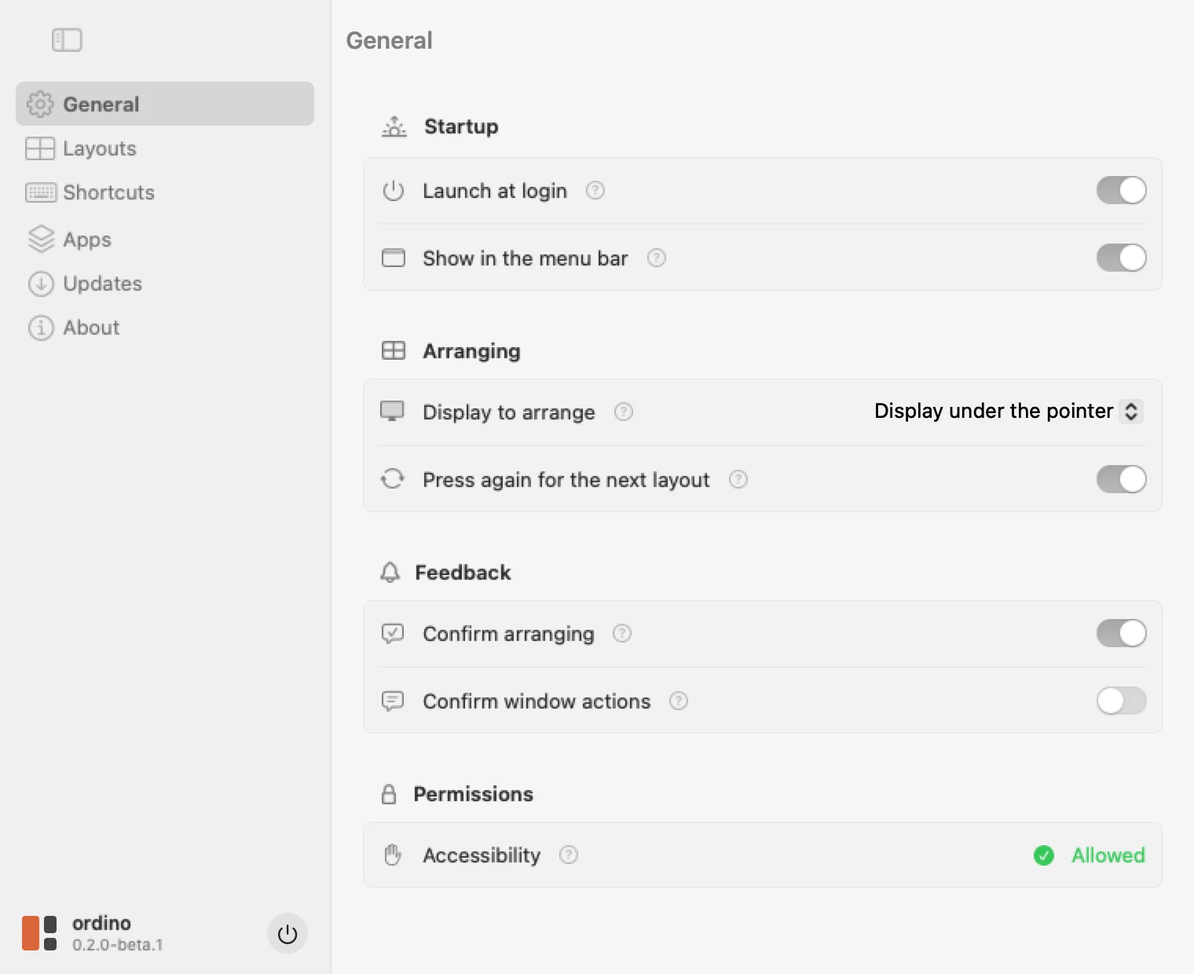
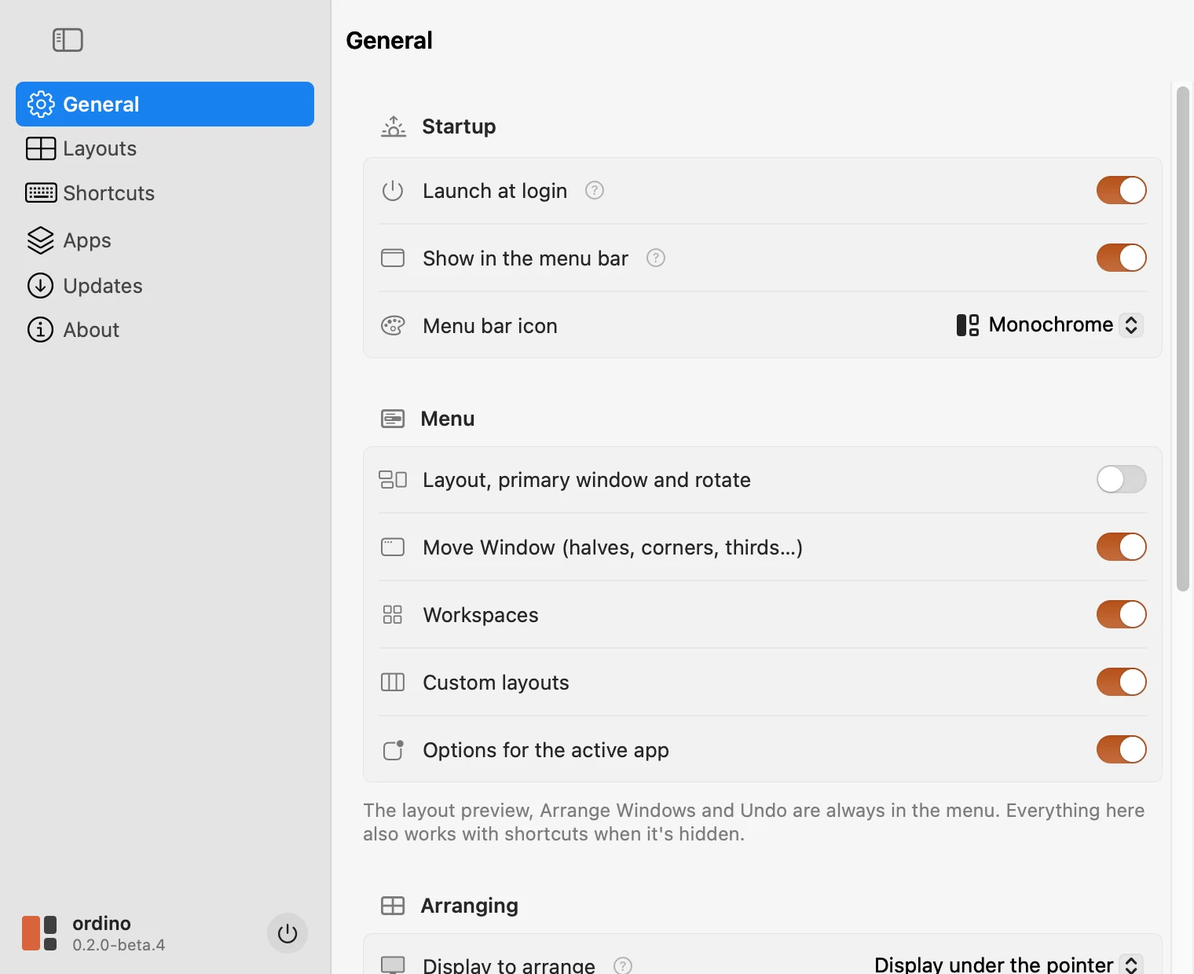
feat: brand colour in the app; website shows the current menu and Settings (#13)
App:
- Settings, grid previews, snap bar and the menu card use ordino's
terracotta (Color.ordino) instead of the system blue.
- Debug snapshots: neutral sample apps (no real app icons), long
Settings panes with sample custom layouts/workspaces, the snap bar;
controls render active; the user's settings are restored afterwards.

Website:
- Hero: under macOS Reduce Motion the desk now cross-fades from
scattered to arranged (no movement) instead of standing still. This is
why it didn't animate on a Mac with Reduce Motion on.
- Menu section shows the current short menu (Move Window, Workspaces,
Custom Layouts, app options) and the current menu card.
- Settings tabs: Snap one window, Custom grids, Workspaces, Menu and
icon, Apps and rules, Updates — all fresh screenshots.
- The drag-to-snap card shows the real snap bar.
- Design gate passes; checked at 1440 and 390.

diff --git a/web/index.html b/web/index.html
@@ -103,7 +103,12 @@
     .win { padding: 4px; } .win__bar { height: 18px; font-size: 9px; padding: 0 6px; } .win__bar i { width: 6px; height: 6px; }
     .hud { font-size: 11px; padding: 6px 10px; } .hud .kbd { font-size: 14px; }
   }
-  @media (prefers-reduced-motion: reduce) { .win { transition: none; } .desk.is-scattered .win { transform: none; } .hud { display: none; } }
+  /* Reduce Motion: the windows don't fly; the scattered desk fades into the arranged one instead,
+     so the hero still shows what ordino does without movement */
+  @media (prefers-reduced-motion: reduce) {
+    .win { transition: opacity 320ms ease; }
+    .desk.is-fading .win { opacity: 0; }
+  }
 
   /* ---- the app frame: the menu bar menu beside the Layouts settings (sections-library.md app-frame) */
   .app.ui { display: grid; grid-template-columns: minmax(0, 5fr) minmax(0, 7fr); margin-top: var(--s-7); background: var(--u-bg); border: 1px solid var(--u-border); border-radius: var(--u-r); box-shadow: var(--u-shadow); }
@@ -332,13 +337,22 @@
   .brew:focus-visible { outline: 2px solid var(--accent); outline-offset: 2px; }
   @media (max-width: 639px) { .brew { display: none; } }   /* Homebrew is a Mac tool; the phone hero stays as it was */
 
+  /* menu item icons (drawn, like the macOS menu's SF Symbols) */
+  .mi__i { width: 13px; height: 10px; margin-right: 7px; border: 1.3px solid currentColor; border-radius: 2.5px; opacity: .75; flex: none; position: relative; }
+  .mi__i--grid { background: linear-gradient(currentColor, currentColor) 50% 0/1.3px 100% no-repeat, linear-gradient(currentColor, currentColor) 0 50%/100% 1.3px no-repeat; }
+  .mi__i--cols { background: linear-gradient(90deg, transparent 31%, currentColor 31% 38%, transparent 38% 62%, currentColor 62% 69%, transparent 69%); }
+  .mi__i--win { border-top-width: 3px; }
+  .mi__i--app { width: 11px; height: 11px; border-radius: 3px; }
+  /* the real snap bar in the drag-to-snap card */
+  .fv-shot { display: block; width: 100%; height: auto; border-radius: 10px; background: #2b2d31; }
+
   /* features: six cards, each with a tiny drawn screen of what it does */
   .feat-grid { row-gap: var(--s-6); }
   .feat { display: flex; flex-direction: column; gap: var(--s-3); }
   .feat h3 { font-size: 18px; } .feat p { color: var(--ink); }
   .fv { display: block; width: 100%; max-width: 220px; height: auto; }
   @media (max-width: 1023px) { #features .feat { grid-column: auto / span 6; } }
-  @media (max-width: 639px) { #features .feat { grid-column: 1 / -1; } #features .fv { max-width: 150px; } #features .feat { gap: var(--s-2); } }
+  @media (max-width: 639px) { #features .feat { grid-column: 1 / -1; } #features .fv { max-width: 164px; } #features .feat { gap: var(--s-2); } }
 
   /* a tall window (960 and up, e.g. a portrait or half-width window on a big display): the close and the
      statement are as tall as what they hold, not a whole screen, which left hundreds of empty pixels
@@ -462,42 +476,28 @@
   <section class="section" id="menu" aria-labelledby="menu-h">
     <div class="wrap">
       <div class="grid">
-        <div class="section-head span-5"><h2 id="menu-h">One menu for every window action.</h2></div>
+        <div class="section-head span-5"><h2 id="menu-h">One short menu for every window action.</h2></div>
         <div class="span-6 start-7 stack-4">
-          <p>Click the ordino icon in the menu bar. The card on top names the display, its window count and the layout ordino will use. Each action shows its shortcut.</p>
+          <p>Click the ordino icon in the menu bar. The card on top shows the display and the layout ordino will use; click another layout to switch. Moving one window, workspaces, custom grids and options for the app you are in sit one level down. Settings chooses what the menu shows and whether the icon is in colour.</p>
           <a class="link" href="#layouts">See how layouts are picked</a>
         </div>
       </div>
       <div class="ui app fill" role="img" aria-label="The ordino menu open under its menu bar icon, beside the Layouts settings with the Master + Stack preview" data-ui-pause-host>
         <div class="app__pane app__pane--list mac">
           <div class="menubar"><span class="menubar__ordino"><img loading="lazy" width="16" height="16" src="logo-mark.svg" alt=""></span><span>Mon 9:41</span></div>
-          <div class="mmenu" role="img" aria-label="The ordino menu: Arrange Windows, layouts, primary window, rotate, undo and the single-window actions with their shortcuts">
+          <div class="mmenu" role="img" aria-label="The ordino menu: the layout card, Arrange Windows, Undo, then Move Window, Workspaces, Custom Layouts and options for the active app">
             <div class="mmenu__card mmenu__card--real">
               <img src="media/menu-card.webp" width="320" height="252" loading="lazy" decoding="async" alt="">
             </div>
             <div class="mi is-on">Arrange Windows<span class="kbd">⌃⌥⌘A</span></div>
-            <div class="mi">Layout<span class="chev">›</span></div>
-            <div class="mi">Primary Window<span class="chev">›</span></div>
-            <div class="mi">Rotate Windows<span class="kbd">⌃⌥⌘R</span></div>
             <div class="mi">Undo Arrange<span class="kbd">⌃⌥⌘Z</span></div>
             <div class="msep"></div>
-            <div class="mi">Left<span class="kbd">⌃⌥←</span></div>
-            <div class="mi">Right<span class="kbd">⌃⌥→</span></div>
-            <div class="mi">Center</div>
-            <div class="mi">Top<span class="kbd">⌃⌥↑</span></div>
-            <div class="mi">Bottom<span class="kbd">⌃⌥↓</span></div>
-            <div class="mi">Top Left<span class="kbd">⌃⌥U</span></div>
-            <div class="mi">Top Right<span class="kbd">⌃⌥I</span></div>
-            <div class="mi">Maximize<span class="kbd">⌃⌥↩</span></div>
-            <div class="mi">Next Display<span class="kbd">⌃⌥⌘→</span></div>
-            <div class="mi">Move to Edge<span class="chev">›</span></div>
-            <div class="mi">Fourths<span class="chev">›</span></div>
-            <div class="mi">Sixths<span class="chev">›</span></div>
-            <div class="msep"></div>
-            <div class="mi">Ignore Browser</div>
+            <div class="mi"><span class="mi__i mi__i--win"></span>Move Window<span class="chev">›</span></div>
+            <div class="mi"><span class="mi__i mi__i--grid"></span>Workspaces<span class="chev">›</span></div>
+            <div class="mi"><span class="mi__i mi__i--cols"></span>Custom Layouts<span class="chev">›</span></div>
+            <div class="mi"><span class="mi__i mi__i--app"></span>Browser<span class="chev">›</span></div>
             <div class="msep"></div>
             <div class="mi">Settings…<span class="kbd">⌘,</span></div>
-            <div class="mi">About ordino</div>
             <div class="mi">Check for Updates…</div>
             <div class="msep"></div>
             <div class="mi">Quit ordino<span class="kbd">⌘Q</span></div>
@@ -575,24 +575,30 @@
     <div class="wrap">
       <div class="grid">
         <div class="span-5 stack-5">
-          <div class="section-head"><h2 id="shortcuts-h">Window shortcuts and settings. <span class="muted">Every shortcut can be changed.</span></h2></div>
+          <div class="section-head"><h2 id="shortcuts-h">Window shortcuts, grids and workspaces in Settings. <span class="muted">Every shortcut can be changed.</span></h2></div>
           <div class="tabs" role="tablist" aria-label="ordino settings">
             <button class="tab" type="button" role="tab" id="t-1" aria-selected="true" aria-controls="tab-1 screen-1">Snap one window</button>
-            <button class="tab" type="button" role="tab" id="t-2" aria-selected="false" aria-controls="tab-2 screen-2" tabindex="-1">Pick primary apps</button>
-            <button class="tab" type="button" role="tab" id="t-3" aria-selected="false" aria-controls="tab-3 screen-3" tabindex="-1">Set the basics</button>
-            <button class="tab" type="button" role="tab" id="t-4" aria-selected="false" aria-controls="tab-4 screen-4" tabindex="-1">Get updates</button>
+            <button class="tab" type="button" role="tab" id="t-2" aria-selected="false" aria-controls="tab-2 screen-2" tabindex="-1">Custom grids</button>
+            <button class="tab" type="button" role="tab" id="t-3" aria-selected="false" aria-controls="tab-3 screen-3" tabindex="-1">Workspaces</button>
+            <button class="tab" type="button" role="tab" id="t-4" aria-selected="false" aria-controls="tab-4 screen-4" tabindex="-1">Menu and icon</button>
+            <button class="tab" type="button" role="tab" id="t-5" aria-selected="false" aria-controls="tab-5 screen-5" tabindex="-1">Apps and rules</button>
+            <button class="tab" type="button" role="tab" id="t-6" aria-selected="false" aria-controls="tab-6 screen-6" tabindex="-1">Updates</button>
           </div>
-          <div role="tabpanel" id="tab-1" aria-labelledby="t-1"><p>Halves, corners, thirds, fourths, sixths, maximize and center. Press <span class="kbd">⌃⌥←</span> again to go from 1/2 to 2/3 to 1/3. Rectangle-style keys by default, Spectacle-style as a preset.</p></div>
-          <div role="tabpanel" id="tab-2" aria-labelledby="t-2" hidden><p>List the apps whose window always takes the large slot, in order. Apps you ignore are never moved.</p></div>
-          <div role="tabpanel" id="tab-3" aria-labelledby="t-3" hidden><p>Arrange the display under the pointer, try the next layout on a second press, and choose when a confirmation shows.</p></div>
-          <div role="tabpanel" id="tab-4" aria-labelledby="t-4" hidden><p>ordino checks, downloads and installs updates by itself, or when you press Check Now.</p></div>
+          <div role="tabpanel" id="tab-1" aria-labelledby="t-1"><p>Halves, corners, thirds, fourths, sixths, maximize and center, each with a shortcut you can change. Press <span class="kbd">⌃⌥←</span> again to go from 1/2 to 2/3 to 1/3.</p></div>
+          <div role="tabpanel" id="tab-2" aria-labelledby="t-2" hidden><p>Pick a shape from the gallery, like 3 columns for an ultrawide, see it drawn, give it a shortcut. Your most recent windows fill it.</p></div>
+          <div role="tabpanel" id="tab-3" aria-labelledby="t-3" hidden><p>Save the windows of a display as Coding or Writing. Apply one and missing apps open, then every window goes back to its place.</p></div>
+          <div role="tabpanel" id="tab-4" aria-labelledby="t-4" hidden><p>Choose a monochrome or colour menu bar icon, and which groups the menu shows. Snapping and display changes switch on or off here.</p></div>
+          <div role="tabpanel" id="tab-5" aria-labelledby="t-5" hidden><p>List the apps whose window takes the large slot, give apps a fixed place, or tell ordino to leave them alone.</p></div>
+          <div role="tabpanel" id="tab-6" aria-labelledby="t-6" hidden><p>ordino checks, downloads and installs updates by itself, or when you press Check Now.</p></div>
         </div>
         <div class="frame frame--split span-6 start-7" role="img" aria-label="The ordino Settings window">
           <div class="stage stage--fade-br">
             <div class="at-corner" id="screen-1"><div class="shot"><img src="media/settings-shortcuts.webp" alt="" width="1520" height="1240" loading="lazy" decoding="async"></div></div>
-            <div class="at-corner" id="screen-2" hidden><div class="shot"><img src="media/settings-apps.webp" alt="" width="1520" height="1240" loading="lazy" decoding="async"></div></div>
-            <div class="at-corner" id="screen-3" hidden><div class="shot"><img src="media/settings-general.webp" alt="" width="1520" height="1240" loading="lazy" decoding="async"></div></div>
-            <div class="at-corner" id="screen-4" hidden><div class="shot"><img src="media/settings-updates.webp" alt="" width="1520" height="1240" loading="lazy" decoding="async"></div></div>
+            <div class="at-corner" id="screen-2" hidden><div class="shot"><img src="media/settings-custom.webp" alt="" width="1520" height="1240" loading="lazy" decoding="async"></div></div>
+            <div class="at-corner" id="screen-3" hidden><div class="shot"><img src="media/settings-workspaces.webp" alt="" width="1520" height="1240" loading="lazy" decoding="async"></div></div>
+            <div class="at-corner" id="screen-4" hidden><div class="shot"><img src="media/settings-general.webp" alt="" width="1520" height="1240" loading="lazy" decoding="async"></div></div>
+            <div class="at-corner" id="screen-5" hidden><div class="shot"><img src="media/settings-apps.webp" alt="" width="1520" height="1240" loading="lazy" decoding="async"></div></div>
+            <div class="at-corner" id="screen-6" hidden><div class="shot"><img src="media/settings-updates.webp" alt="" width="1520" height="1240" loading="lazy" decoding="async"></div></div>
           </div>
         </div>
       </div>
@@ -604,7 +610,7 @@
       <div class="section-head"><h2 id="features-h">More ordino features for real desks. <span class="muted">More monitors, more ways to work.</span></h2></div>
       <div class="grid feat-grid">
         <article class="card card--open span-4 m-nolift feat">
-          <svg class="fv" viewBox="0 0 160 96" role="img" aria-label="A window snapped to the left half"><rect width="160" height="96" rx="10" fill="#2b2d31"/><rect x="6" y="6" width="72" height="84" rx="4" fill="#d9653b"/><rect x="82" y="6" width="72" height="40" rx="4" fill="#edeae4"/><rect x="82" y="50" width="72" height="40" rx="4" fill="#edeae4"/></svg>
+          <img class="fv-shot" src="media/snap-bar.webp" width="1020" height="144" loading="lazy" decoding="async" alt="The snap bar: layouts that appear at the top of the screen while you drag a window, with Two Thirds highlighted">
           <h3>Drag-to-snap windows</h3>
           <p>Pull a window to a screen edge for a half, into a corner for a quarter, or up to the top for a bar of layouts: thirds, two thirds, quarters.</p>
         </article>
@@ -630,7 +636,7 @@
         </article>
         <article class="card card--open span-4 m-nolift feat">
           <svg class="fv" viewBox="0 0 160 96" role="img" aria-label="An ordino link"><rect width="160" height="96" rx="10" fill="#2b2d31"/><text x="80" y="55" text-anchor="middle" font-family="DM Mono, ui-monospace, monospace" font-size="16" fill="#edeae4">ordino://arrange</text></svg>
-          <h3>ordino links for Shortcuts and Raycast</h3>
+          <h3>Links to arrange windows from Shortcuts</h3>
           <p>ordino:// links for Shortcuts, Raycast and scripts: arrange, switch layout or open a workspace.</p>
         </article>
       </div>

diff --git a/Sources/OrdinoApp/DebugSnapshots.swift b/Sources/OrdinoApp/DebugSnapshots.swift
@@ -41,17 +41,66 @@
                             to: url.appendingPathComponent("menu-card-\(name)-\(suffix).png"))
                     }
                 }
+                await renderFeatureShots(app: app, to: url)
                 NSApp.terminate(nil)
             }
+        }
+
+        /// Long Settings panes with sample content (custom layouts, workspaces, menu options) and the snap bar,
+        /// for the website. The user's own settings are put back afterwards.
+        private static func renderFeatureShots(app: AppDelegate, to url: URL) async {
+            let s = app.settings
+            let saved = (s.customLayouts, s.workspaces, s.menuSections, s.menuBarIconStyle)
+            s.customLayouts = [
+                CustomLayout(name: "3 Columns", columns: 3, rows: 1),
+                CustomLayout(name: "2 × 2 Grid", columns: 2, rows: 2),
+            ]
+            s.workspaces = [
+                Workspace(
+                    name: "Coding",
+                    slots: [
+                        .init(bundleID: "sample.editor", appName: "Code Editor", x: 0, y: 0, w: 0.6, h: 1),
+                        .init(bundleID: "sample.browser", appName: "Browser", x: 0.6, y: 0, w: 0.4, h: 0.5),
+                        .init(bundleID: "sample.terminal", appName: "Terminal", x: 0.6, y: 0.5, w: 0.4, h: 0.5),
+                    ]),
+                Workspace(
+                    name: "Writing",
+                    slots: [
+                        .init(bundleID: "sample.notes", appName: "Notes", x: 0, y: 0, w: 0.5, h: 1),
+                        .init(bundleID: "sample.browser", appName: "Browser", x: 0.5, y: 0, w: 0.5, h: 1),
+                    ]),
+            ]
+            s.menuSections = MenuSection.defaults
+            s.menuBarIconStyle = .colorAutomatic
+            for appearance in [NSAppearance.Name.aqua, .darkAqua] {
+                let suffix = appearance == .aqua ? "light" : "dark"
+                for pane in [SettingsPane.general, .layouts] {
+                    let navigation = SettingsNavigation()
+                    navigation.pane = pane
+                    await render(
+                        SettingsView(app: app, navigation: navigation), size: NSSize(width: 760, height: 1500),
+                        appearance: appearance,
+                        to: url.appendingPathComponent("settings-\(pane.rawValue)-tall-\(suffix).png"))
+                }
+                let model = SnapBarModel()
+                model.hoveredGroup = 2
+                model.hoveredAction = .firstTwoThirds
+                await render(
+                    SnapBarView(model: model).padding(24),
+                    size: NSSize(width: SnapBar.size.w + 48, height: SnapBar.size.h + 48),
+                    appearance: appearance, to: url.appendingPathComponent("snap-bar-\(suffix).png"))
+            }
+            (s.customLayouts, s.workspaces, s.menuSections, s.menuBarIconStyle) = saved
         }
 
         /// A preview with real installed apps on the first display (for its wallpaper).
         private static func samplePreview(layout: LayoutID, count: Int) -> ArrangeCoordinator.Preview? {
             guard let display = Displays.all().first else { return nil }
+            // Neutral sample apps (no real app icons or names in published images).
             let apps: [(String, String)] = [
-                ("Xcode", "com.apple.dt.Xcode"), ("Safari", "com.apple.Safari"), ("Notes", "com.apple.Notes"),
-                ("Mail", "com.apple.mail"), ("Google Chrome", "com.google.Chrome"), ("Terminal", "com.apple.Terminal"),
-                ("Calendar", "com.apple.iCal"),
+                ("Code Editor", "sample.editor"), ("Browser", "sample.browser"), ("Notes", "sample.notes"),
+                ("Mail", "sample.mail"), ("Design", "sample.design"), ("Terminal", "sample.terminal"),
+                ("Calendar", "sample.calendar"),
             ]
             // A neutral sample display: no personal wallpaper or monitor name in published images.
             let snapshot = DisplaySnapshot(
@@ -81,9 +130,14 @@
                 styleMask: [.titled, .fullSizeContentView], backing: .buffered, defer: false)
             window.titlebarAppearsTransparent = true
             window.appearance = NSAppearance(named: appearance)
-            window.contentViewController = NSHostingController(rootView: view)
+            // Draw controls as in the active window (offscreen windows are never key, so toggles would look grey).
+            window.contentViewController = NSHostingController(
+                rootView: view.environment(\.controlActiveState, .key))
             window.setContentSize(size)
-            window.orderBack(nil)
+            // Controls draw as active only in the key window of the active app.
+            NSApp.setActivationPolicy(.regular)
+            NSApp.activate()
+            window.makeKeyAndOrderFront(nil)
             try? await Task.sleep(for: .milliseconds(600))
             guard let content = window.contentView?.superview ?? window.contentView else { return }
             content.layoutSubtreeIfNeeded()

diff --git a/web/site.js b/web/site.js
@@ -1,6 +1,7 @@
 // ordino site: small jobs the kit does not do (hero snap, download links, copy buttons).
 // 1. The hero desktop: the scattered windows snap into Master + Stack once after load (the HUD shows the
-//    shortcut), and again when the pointer or the focus enters the frame. Under reduced motion they stand arranged.
+//    shortcut), and again when the pointer or the focus enters the frame. Under Reduce Motion the scattered
+//    desk cross-fades into the arranged one instead of moving.
 // 2. The download links: the static href points at 0.2.0-beta.1; the update feed (same origin) upgrades the
 //    href and the version label to the newest release. Without script or feed the static link stays.
 const reduced = matchMedia('(prefers-reduced-motion: reduce)').matches;
@@ -9,8 +10,19 @@ if (desk) {
   let busy = false;
   const play = (delay) => {
     if (busy) return; busy = true;
-    if (reduced) { desk.classList.remove('is-scattered'); busy = false; return; }
     desk.classList.add('is-scattered');
+    if (reduced) {
+      // No movement: fade the scattered windows out, place them, fade them back in arranged.
+      setTimeout(() => {
+        desk.classList.add('is-fading', 'is-hud');
+        setTimeout(() => {
+          desk.classList.remove('is-scattered');
+          requestAnimationFrame(() => desk.classList.remove('is-fading'));
+          setTimeout(() => { desk.classList.remove('is-hud'); busy = false; }, 1500);
+        }, 340);
+      }, delay);
+      return;
+    }
     setTimeout(() => {
       desk.classList.add('is-hud');
       requestAnimationFrame(() => desk.classList.remove('is-scattered'));

diff --git a/Sources/OrdinoApp/MenuCard.swift b/Sources/OrdinoApp/MenuCard.swift
@@ -225,7 +225,7 @@ struct MiniWindow: View {
         .overlay(
             RoundedRectangle(cornerRadius: radius, style: .continuous)
                 .strokeBorder(
-                    isPrimary ? Color.accentColor : Color.black.opacity(isHovered ? 0.35 : 0.14),
+                    isPrimary ? Color.ordino : Color.black.opacity(isHovered ? 0.35 : 0.14),
                     lineWidth: isPrimary ? 1.5 : 0.5)
         )
         .shadow(color: .black.opacity(isPrimary ? 0.32 : 0.22), radius: isPrimary ? 3 : 1.5, y: 1)
@@ -250,11 +250,11 @@ struct LayoutPicker: View {
                 } label: {
                     Image(nsImage: ActionIcons.image(for: layout, windowCount: windowCount))
                         .renderingMode(.template)
-                        .foregroundStyle(selected ? Color.accentColor : Color.secondary)
+                        .foregroundStyle(selected ? Color.ordino : Color.secondary)
                         .frame(maxWidth: .infinity, minHeight: 26)
                         .background(
                             RoundedRectangle(cornerRadius: 6, style: .continuous)
-                                .fill(selected ? Color.accentColor.opacity(0.16) : Color.clear)
+                                .fill(selected ? Color.ordino.opacity(0.16) : Color.clear)
                         )
                         .contentShape(Rectangle())
                 }

diff --git a/Sources/OrdinoApp/SettingsWindow.swift b/Sources/OrdinoApp/SettingsWindow.swift
@@ -145,6 +145,10 @@ struct SettingsView: View {
     @Bindable var navigation: SettingsNavigation
 
     var body: some View {
+        settingsBody.tint(.ordino)
+    }
+
+    private var settingsBody: some View {
         NavigationSplitView {
             List(SettingsPane.allCases, selection: Binding($navigation.pane)) { pane in
                 NavigationLink(value: pane) {
@@ -205,13 +209,19 @@ struct SidebarFooter: View {
 }
 
 /// The ordino mark in its brand colours: terracotta primary tile, neutral stack.
+extension Color {
+    /// ordino's terracotta (brand guide #D9653B): Settings controls, previews and the snap bar use it so the app
+    /// and the website read as one product.
+    static let ordino = Color(red: 0.851, green: 0.396, blue: 0.231)
+}
+
 struct BrandMarkColored: View {
     var body: some View {
         GeometryReader { geo in
             let s = min(geo.size.width, geo.size.height) / 48
             ZStack(alignment: .topLeading) {
                 RoundedRectangle(cornerRadius: 4.3 * s, style: .continuous)
-                    .fill(Color(red: 0.85, green: 0.40, blue: 0.23))
+                    .fill(Color.ordino)
                     .frame(width: 24.6 * s, height: 48 * s)
                 RoundedRectangle(cornerRadius: 4.3 * s, style: .continuous)
                     .fill(Color.primary.opacity(0.85))

diff --git a/Sources/OrdinoApp/SettingsPanes.swift b/Sources/OrdinoApp/SettingsPanes.swift
@@ -373,7 +373,7 @@ struct LayoutPreviewDiagram: View {
                     )
                     .insetBy(dx: 2, dy: 2)
                     RoundedRectangle(cornerRadius: 5, style: .continuous)
-                        .fill(index == 0 ? Color(red: 0.85, green: 0.40, blue: 0.23) : Color(white: 0.92))
+                        .fill(index == 0 ? Color.ordino : Color(white: 0.92))
                         .frame(width: max(1, rect.width), height: max(1, rect.height))
                         .offset(x: rect.minX, y: rect.minY)
                         .animation(.smooth(duration: 0.2), value: r)
@@ -1009,7 +1009,7 @@ struct GridPreview: View {
                 RoundedRectangle(cornerRadius: 5, style: .continuous).fill(Color.primary.opacity(0.08))
                 ForEach(0..<(columns * rows), id: \.self) { i in
                     RoundedRectangle(cornerRadius: 2.5, style: .continuous)
-                        .fill(i == 0 ? Color.accentColor : Color.accentColor.opacity(0.45))
+                        .fill(i == 0 ? Color.ordino : Color.ordino.opacity(0.4))
                         .frame(width: max(1, w), height: max(1, h))
                         .offset(
                             x: pad + Double(i % columns) * (w + gap), y: pad + Double(i / columns) * (h + gap))

diff --git a/Sources/OrdinoApp/SnapBarPanel.swift b/Sources/OrdinoApp/SnapBarPanel.swift
@@ -40,7 +40,7 @@ final class SnapBarPanel: NSPanel {
     }
 }
 
-private struct SnapBarView: View {
+struct SnapBarView: View {
     let model: SnapBarModel
 
     var body: some View {
@@ -69,7 +69,7 @@ private struct GroupView: View {
                 ForEach(Array(cells.enumerated()), id: \.offset) { _, c in
                     let on = c.action == hovered
                     RoundedRectangle(cornerRadius: 4, style: .continuous)
-                        .fill(on ? Color.accentColor : Color.primary.opacity(0.14))
+                        .fill(on ? Color.ordino : Color.primary.opacity(0.14))
                         .frame(
                             width: max(1, c.unit.w * geo.size.width - SnapBar.cellGap),
                             height: max(1, c.unit.h * geo.size.height - SnapBar.cellGap)
